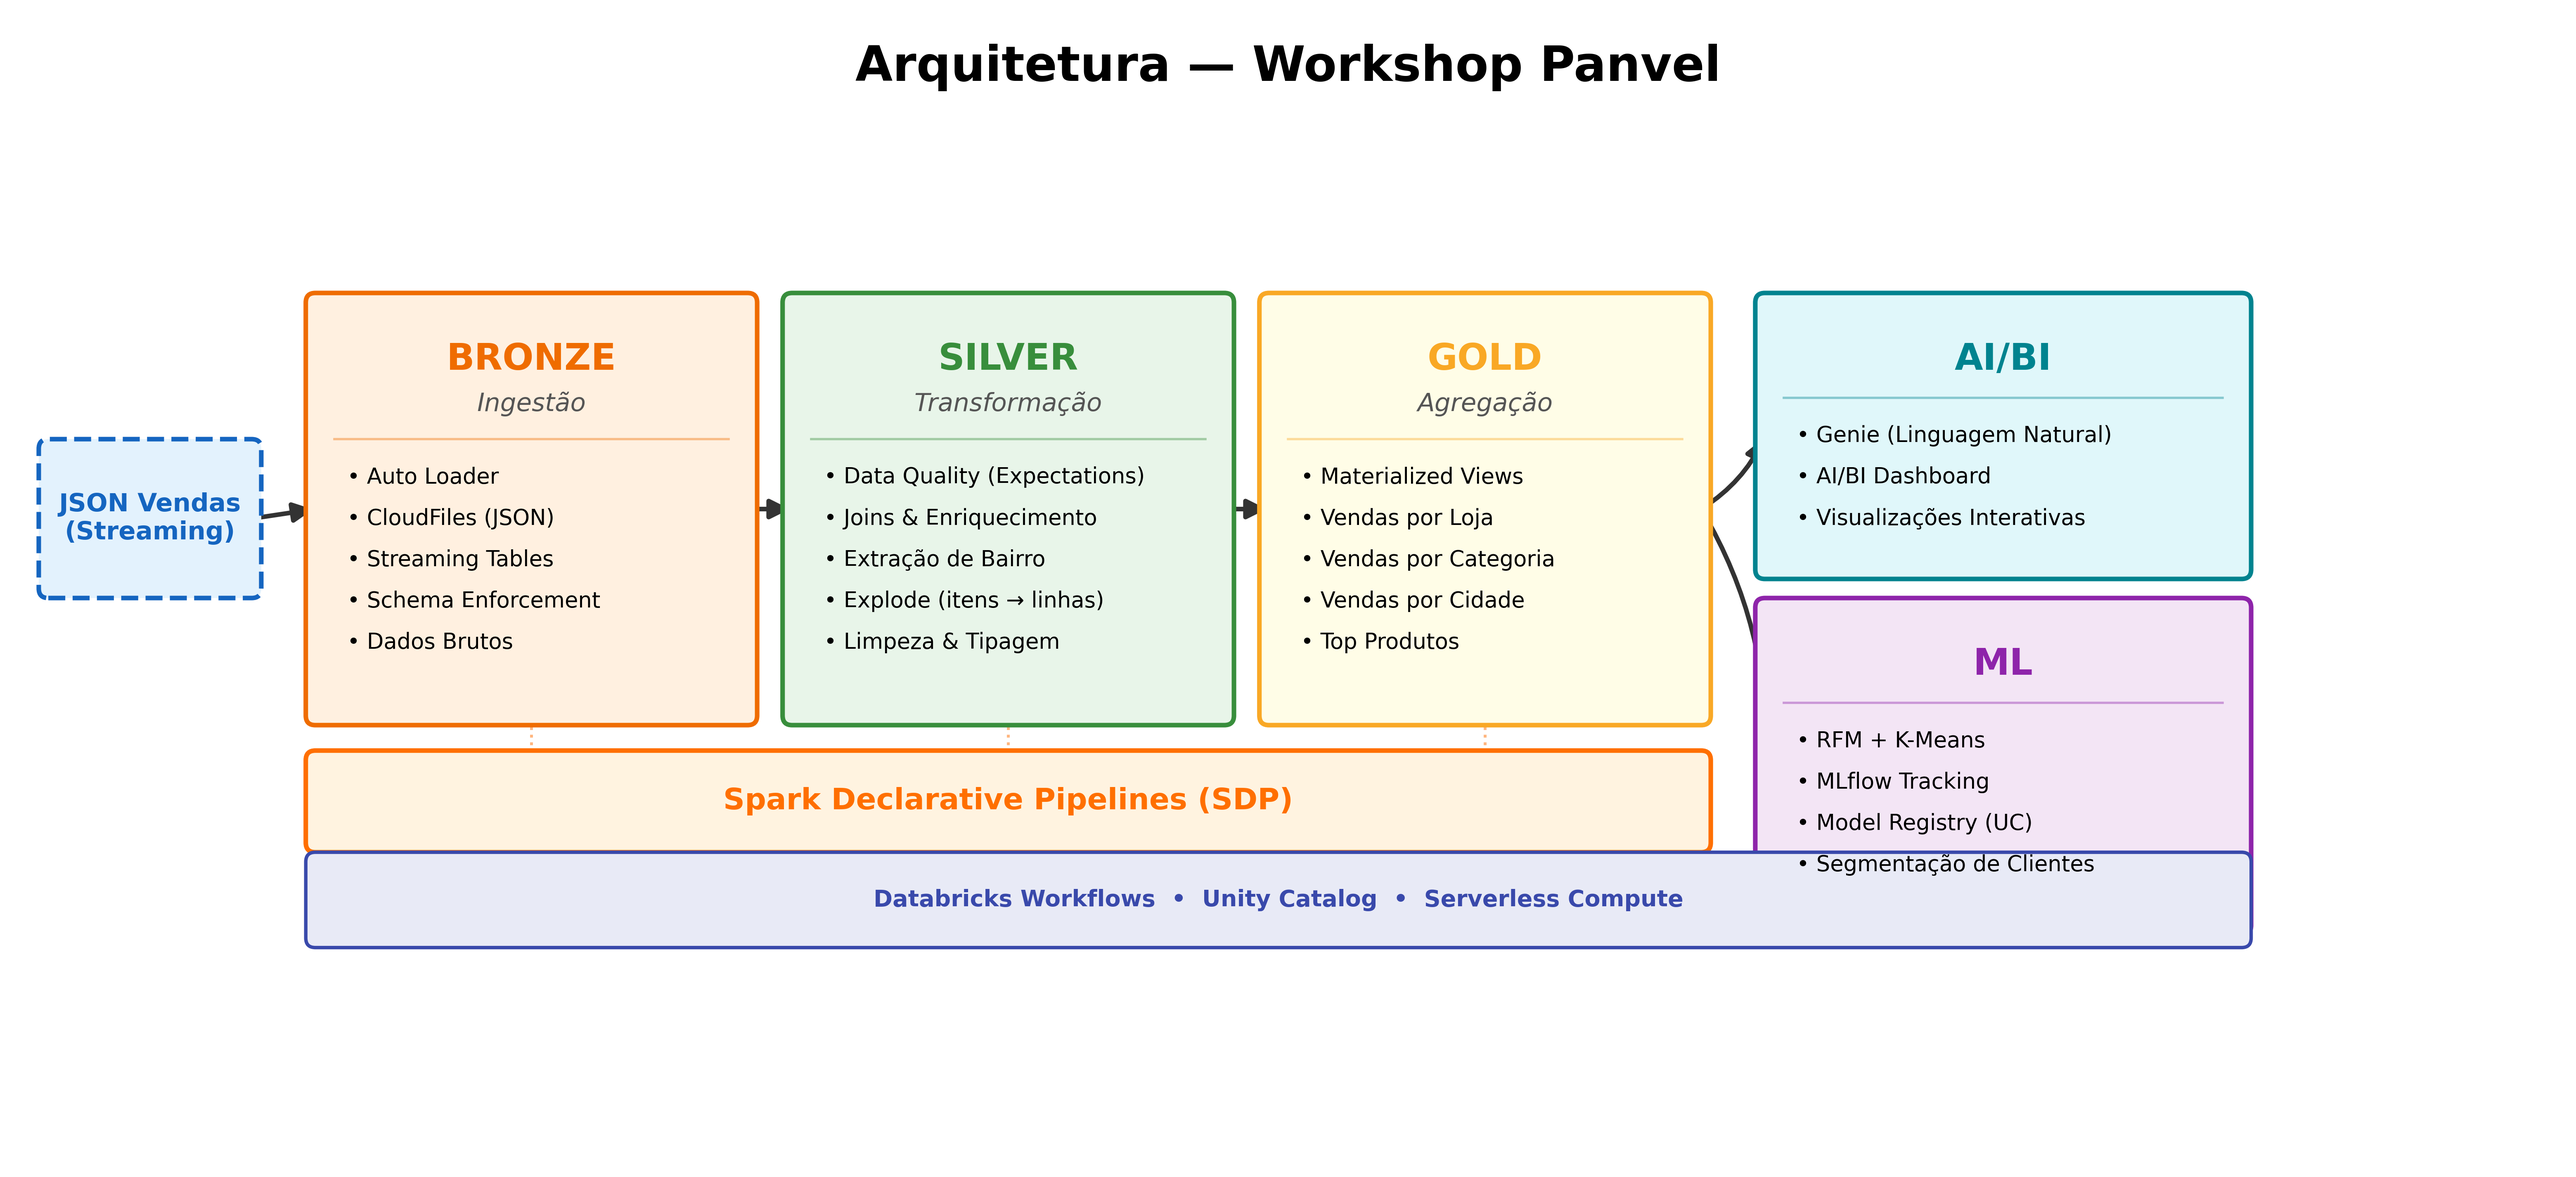
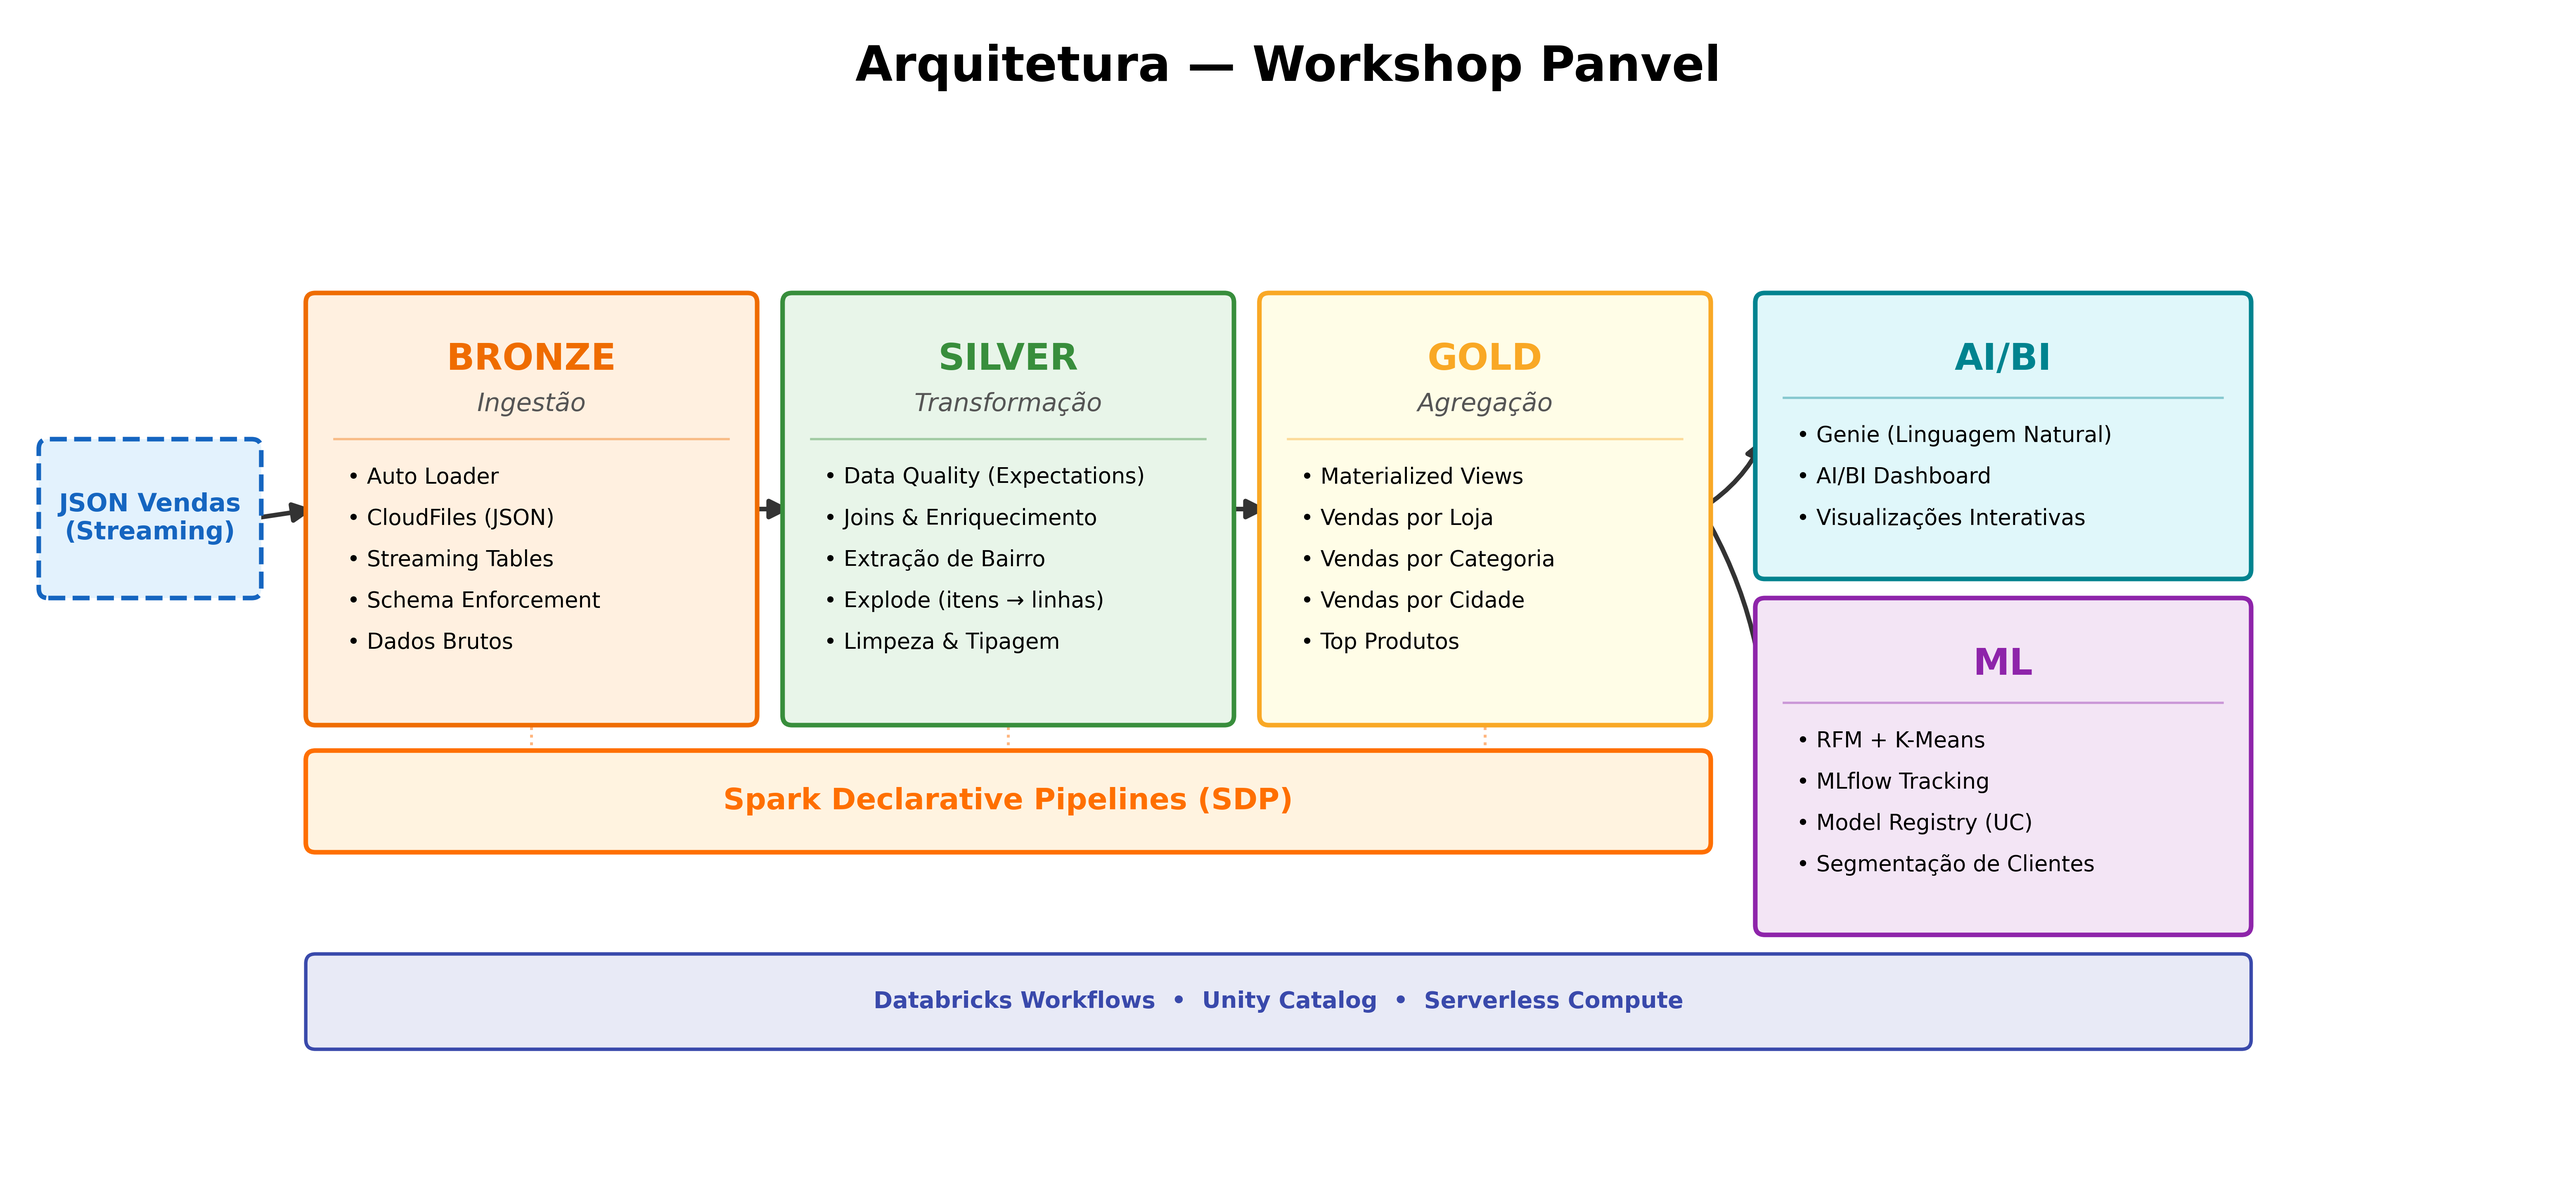
Move Workflows bar below ML box to avoid overlap

Changed region(s): [[0.125, 0.7177, 0.875, 0.8114], [0.125, 0.8426, 0.875, 0.905]]

diff --git a/images/generate_arch.py b/images/generate_arch.py
@@ -144,7 +144,7 @@ def main():
                 color=PIPELINE_COLOR, lw=2.5, ls=":", alpha=0.5, zorder=2)
 
     # Workflow bar
-    wf_y = pb_y - 1.5
+    wf_y = min(pb_y, fy2) - 1.8
     wf_w = fx + fw - pb_x
     draw_box(ax, pb_x, wf_y, wf_w, 1.2, "#E8EAF6", "#3949AB", lw=3)
     ax.text(pb_x + wf_w/2, wf_y + 0.6,
